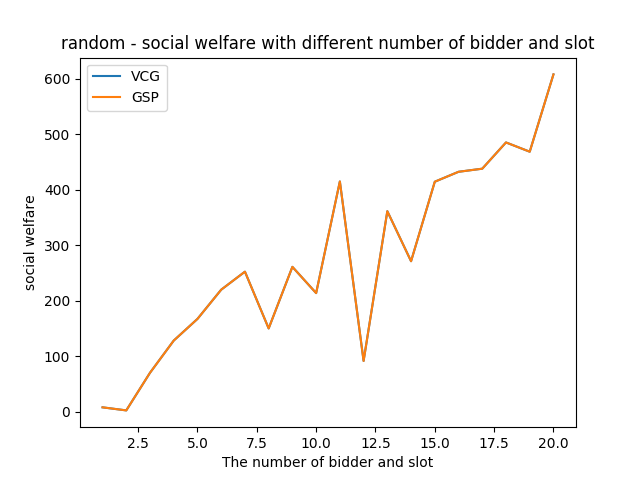
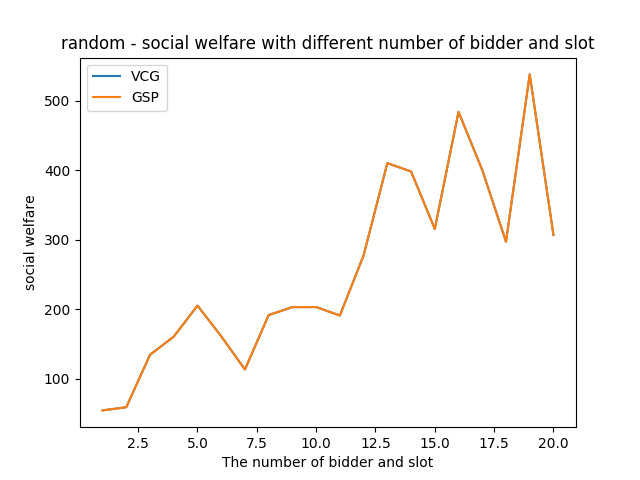
Version 6

diff --git a/GSPApplication/GSPApplication/DriveAuction.py b/GSPApplication/GSPApplication/DriveAuction.py
@@ -13,7 +13,7 @@ from Bidder import Bidder
 from Auction import Auction
 from Slots import Slots
 
-def runAndPrint(numbid, numitem, truthOrRandom):
+def runAndPrint(numbid, numitem, truthOrRandom, repeatTimes):
     #str = "The number of Bidders is " + str(numbid) + ", and the number of Items
     #is " + str(numitem)
     auction = Auction(numbid, numitem, truthOrRandom)
@@ -24,34 +24,47 @@ def runAndPrint(numbid, numitem, truthOrRandom):
     str(b.intrinsicValue) + ", bid is " + str(b.bidValue))
     print(" ")
     '''
-    auction.executeVCG()
-    SWVCG = auction.SocialWelfare
-    RVCG = auction.revenue
-    '''
-    print("Now it is VCG result: ")
-    print("valueVac = " + str(auction.valueVec))
-    print("bidVec = " + str(auction.bidVec))
-    print("allocation = " + str(auction.allocation))
-    print("The bidders should pay = " + str(auction.priceBids))
-    print("revenue = " + str(auction.revenue))
-    print("SocialWelfare = " + str(auction.SocialWelfare))
-    print("clickThroughRate = " + str(auction.slots.clickRate))
-    print(" ")
-    '''
-    auction.executeGSP()
-    SWGSP = auction.SocialWelfare
-    RGSP = auction.revenue
-    '''
-    print("Now it is GSP result: ")
-    print("valueVac = " + str(auction.valueVec))
-    print("bidVec = " + str(auction.bidVec))
-    print("allocation = " + str(auction.allocation))
-    print("The bidders should pay = " + str(auction.priceBids))
-    print("revenue = " + str(auction.revenue))
-    print("SocialWelfare = " + str(auction.SocialWelfare))
-    print("clickThroughRate = " + str(auction.slots.clickRate))
-    print(" ")
-    '''
+    SWVCGseq = []
+    RVCGseq = []
+    SWGSPseq = []
+    RGSPseq = []
+    for i in range(repeatTimes):
+        auction.executeVCG()
+        swVCG = auction.SocialWelfare
+        rVCG = auction.revenue
+        SWVCGseq = np.append(SWVCGseq, swVCG)
+        RVCGseq = np.append(RVCGseq, rVCG)
+        '''
+        print("Now it is VCG result: ")
+        print("valueVac = " + str(auction.valueVec))
+        print("bidVec = " + str(auction.bidVec))
+        print("allocation = " + str(auction.allocation))
+        print("The bidders should pay = " + str(auction.priceBids))
+        print("revenue = " + str(auction.revenue))
+        print("SocialWelfare = " + str(auction.SocialWelfare))
+        print("clickThroughRate = " + str(auction.slots.clickRate))
+        print(" ")
+        '''
+        auction.executeGSP()
+        swGSP = auction.SocialWelfare
+        rGSP = auction.revenue
+        SWGSPseq = np.append(SWGSPseq, swGSP)
+        RGSPseq = np.append(RGSPseq, rGSP)
+        '''
+        print("Now it is GSP result: ")
+        print("valueVac = " + str(auction.valueVec))
+        print("bidVec = " + str(auction.bidVec))
+        print("allocation = " + str(auction.allocation))
+        print("The bidders should pay = " + str(auction.priceBids))
+        print("revenue = " + str(auction.revenue))
+        print("SocialWelfare = " + str(auction.SocialWelfare))
+        print("clickThroughRate = " + str(auction.slots.clickRate))
+        print(" ")
+        '''
+    SWVCG = np.mean(SWVCGseq)
+    RVCG = np.mean(RVCGseq)
+    SWGSP = np.mean(SWGSPseq) 
+    RGSP = np.mean(RGSPseq)
     return [SWVCG, RVCG, SWGSP, RGSP]
 
 if __name__ == '__main__':
@@ -68,7 +81,7 @@ if __name__ == '__main__':
     for num in list(range(1,21)):
         for i in range(2):
             print("The number of Bidders is " + str(num) + ", and the number of Items is " + str(num) + ", " + truthOrRand[i])
-            [swVCG, rVCG, swGSP, rGSP] = runAndPrint(num, num, truthOrRand[i])
+            [swVCG, rVCG, swGSP, rGSP] = runAndPrint(num, num, truthOrRand[i], 10000)
             SWVCG[i] = np.append(SWVCG[i], swVCG)
             RVCG[i] = np.append(RVCG[i], rVCG)
             SWGSP[i] = np.append(SWGSP[i], swGSP)
